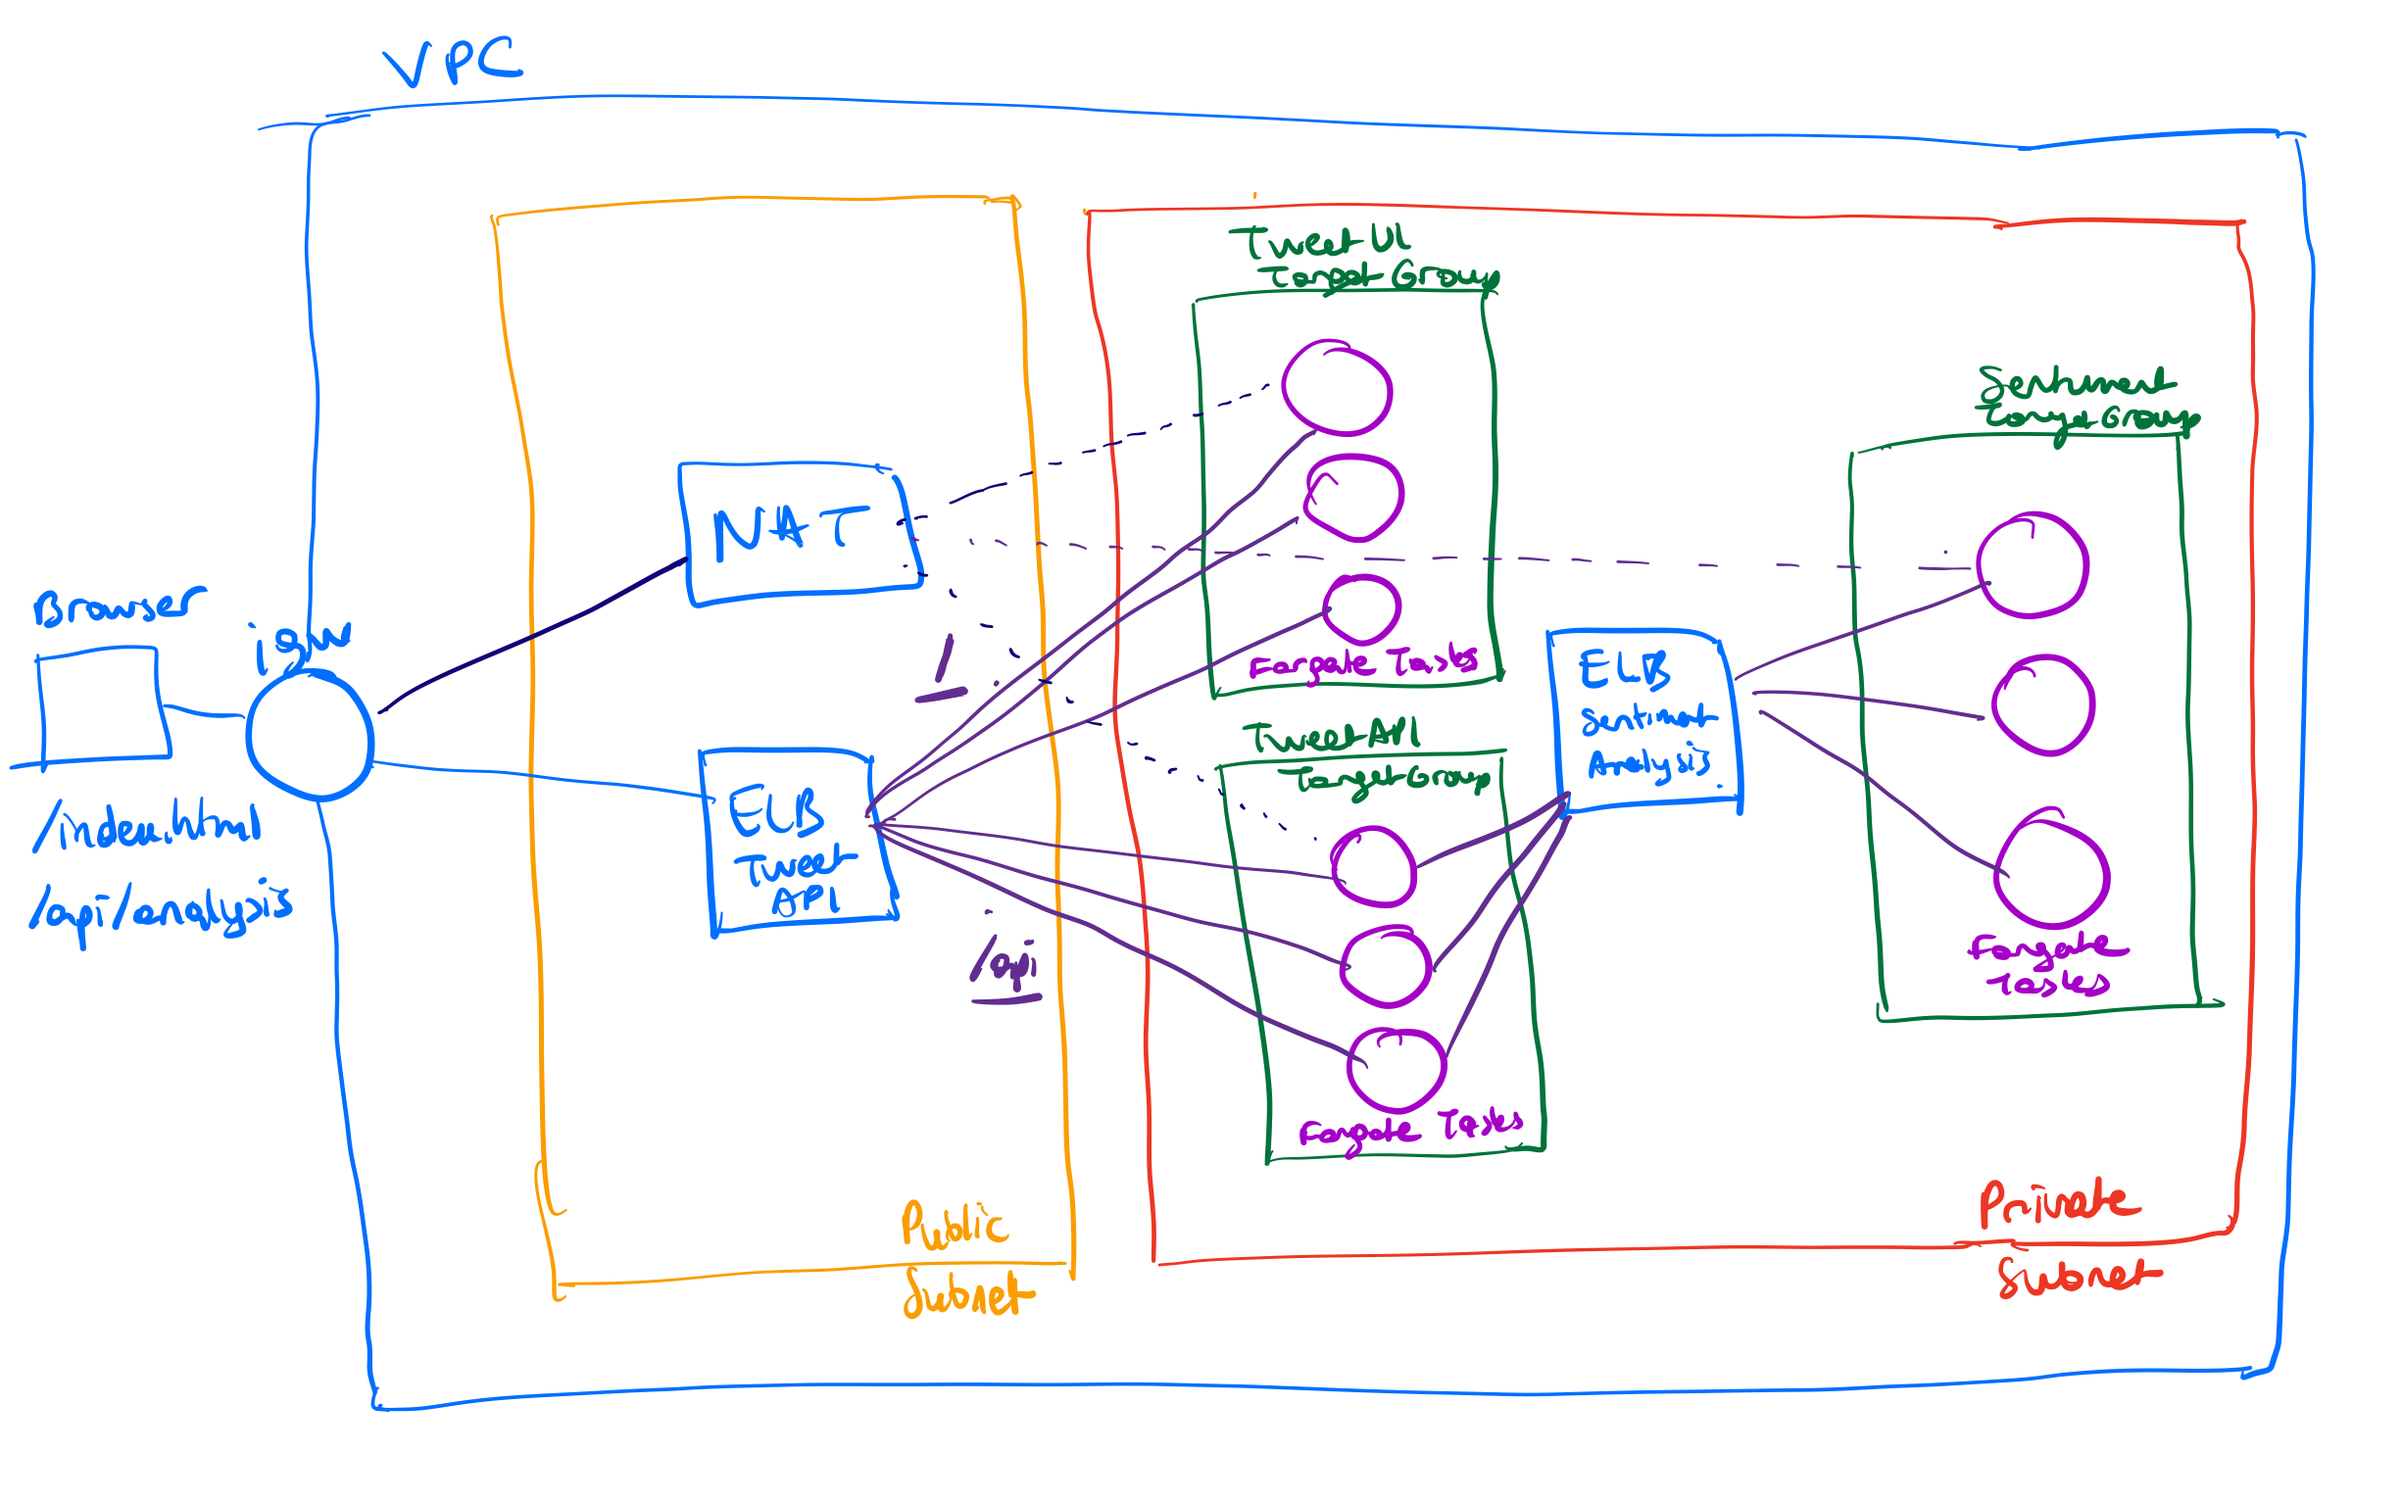
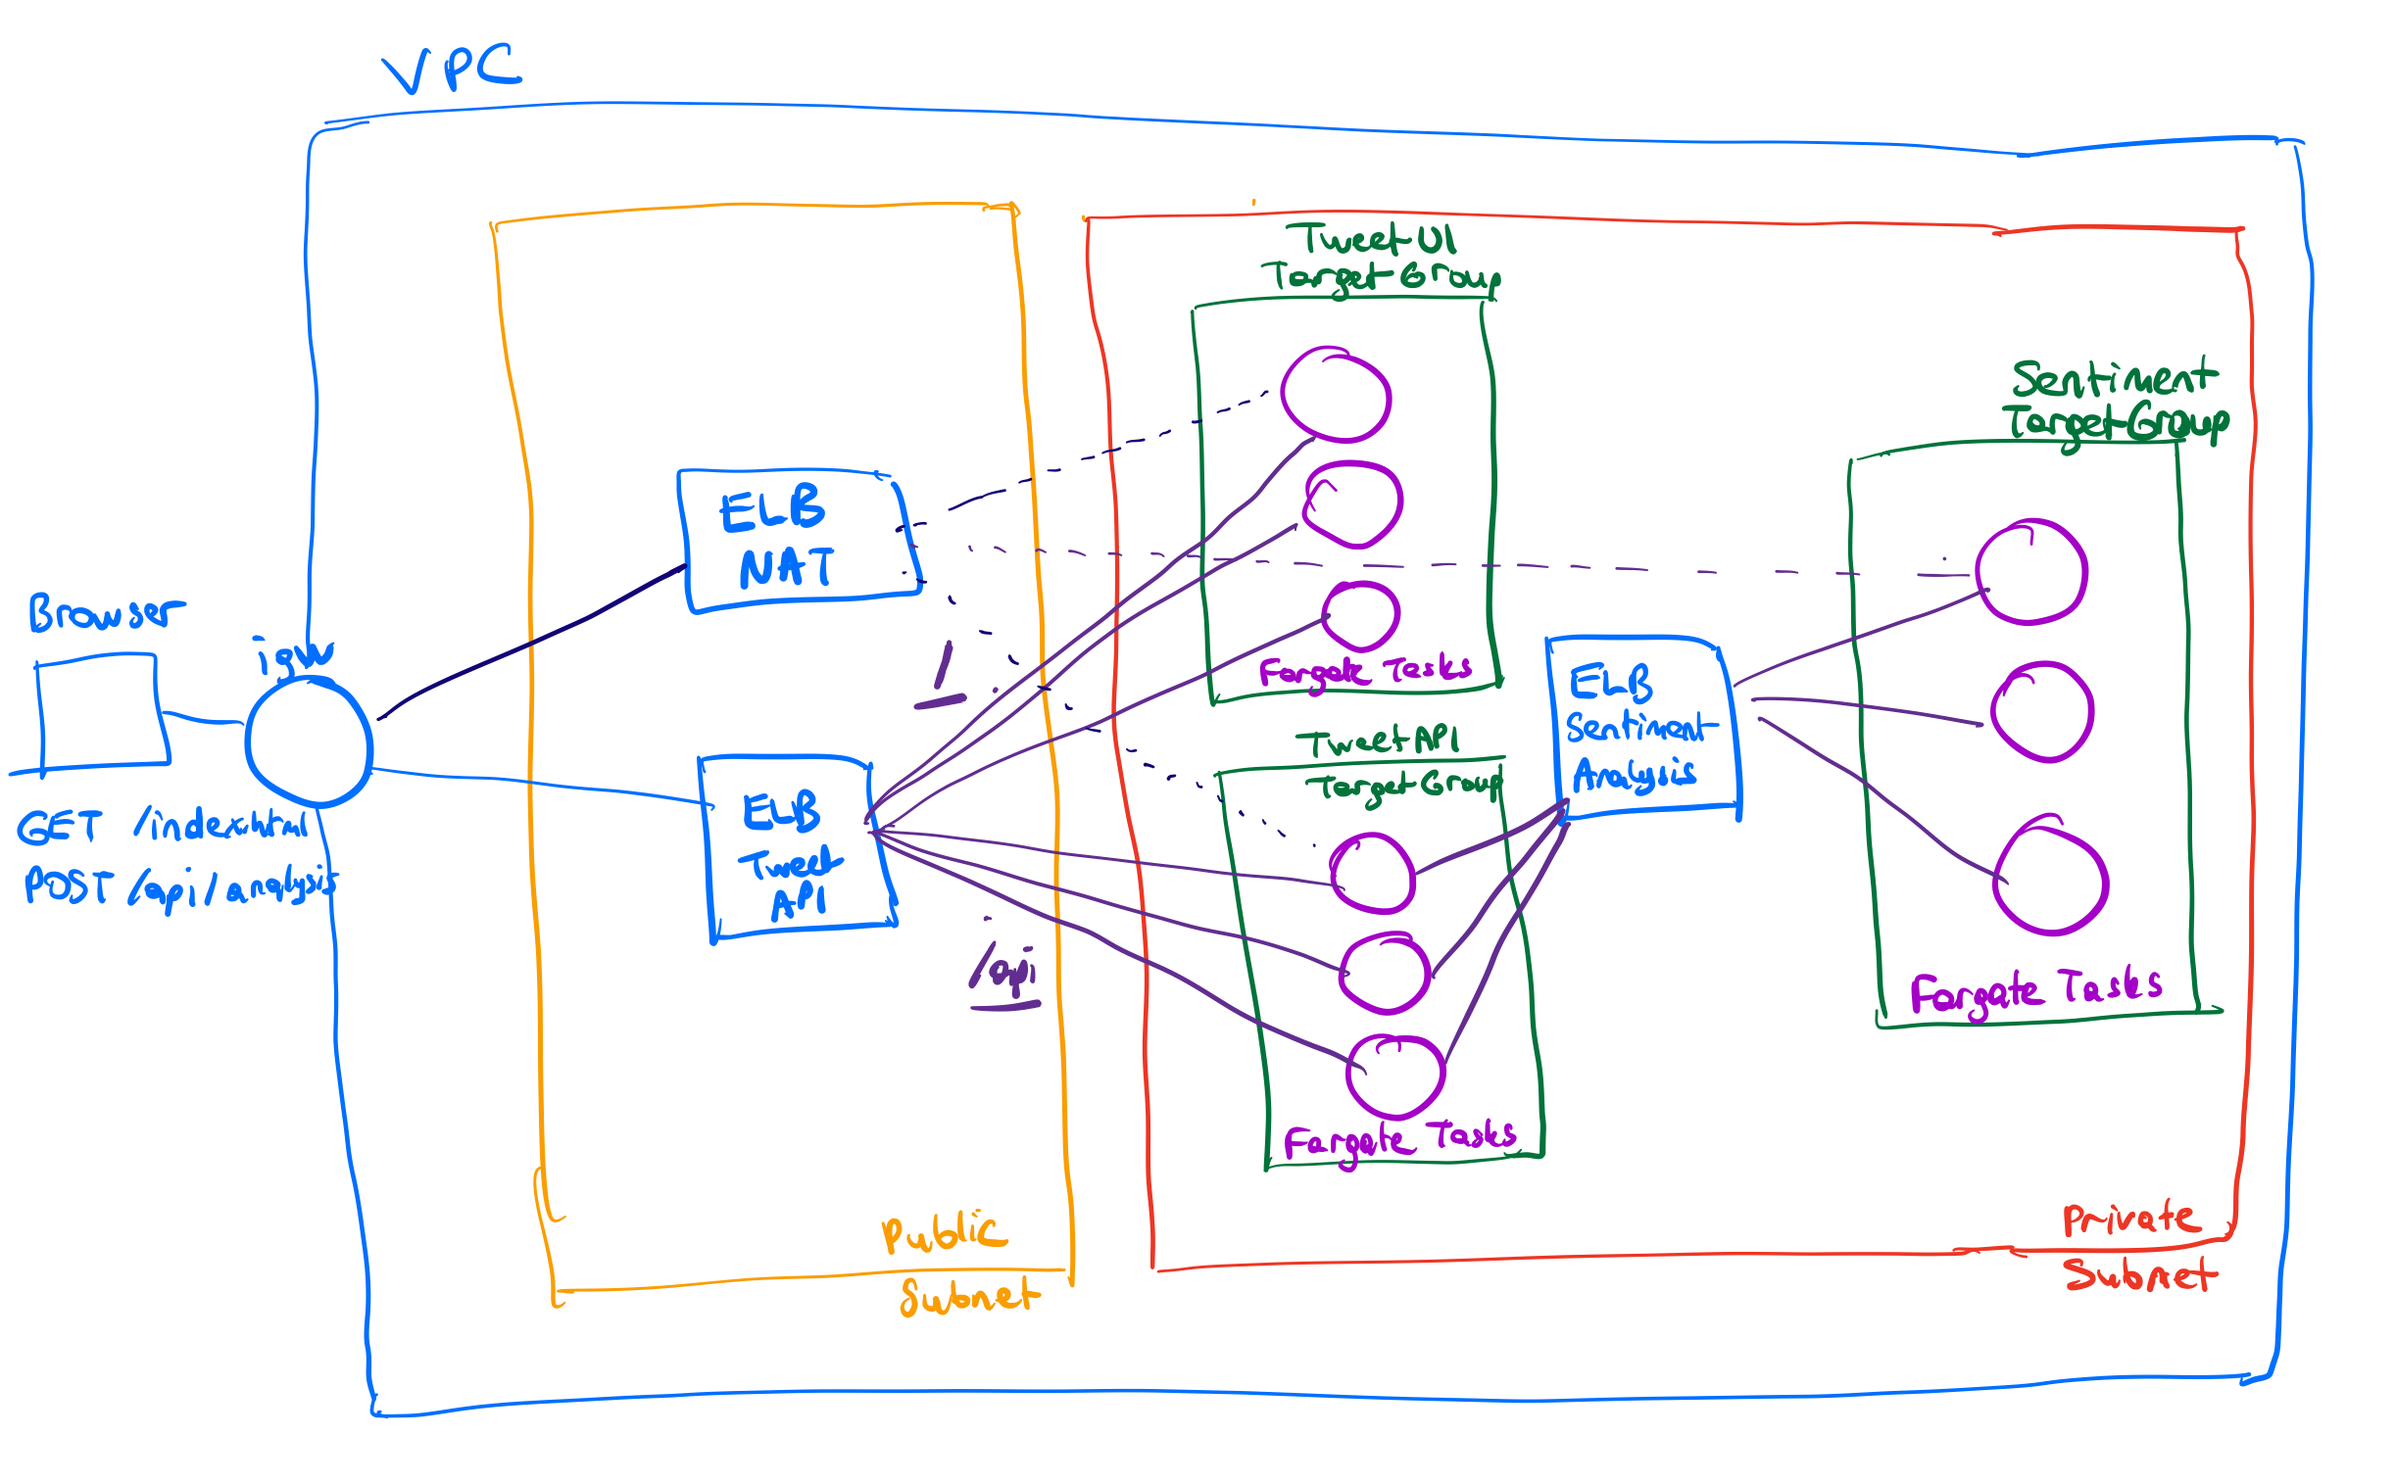
Updated image and changed heading of README

diff --git a/terraform/README.md b/terraform/README.md
@@ -1,4 +1,4 @@
-# Deployment
+# Infrastructure
 
 For the highly available deployment of the Tweet UI, Tweet API and Sentiment Analysis, I chose AWS Fargate with ECS. Fargate is a serverless compute engine for containers. 
 
